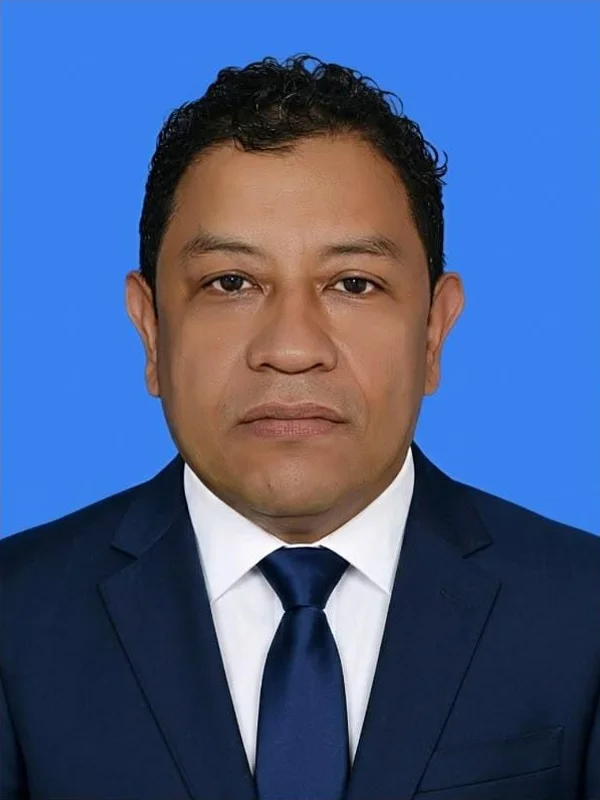
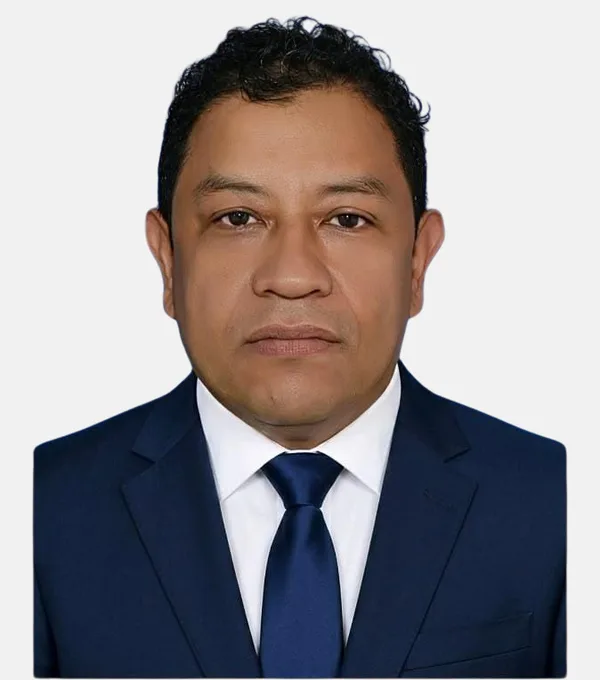
Foto de Carlos con fondo claro; enlaces reales de Instagram y TikTok
El footer muestra solo las redes que tiene la firma (Instagram y TikTok).

diff --git a/src/app/shared/ui/icon/icon.ts b/src/app/shared/ui/icon/icon.ts
@@ -23,7 +23,6 @@ import {
   Clock,
   Coins,
   Eye,
-  Facebook,
   FileSearch,
   FileText,
   GraduationCap,
@@ -34,7 +33,6 @@ import {
   Landmark,
   Laptop,
   Lightbulb,
-  Linkedin,
   Mail,
   Medal,
   Menu,
@@ -48,7 +46,7 @@ import {
   Users,
   X,
 } from '@animateicons/angular/lucide';
-import { Whatsapp } from '@animateicons/angular/huge';
+import { Tiktok, Whatsapp } from '@animateicons/angular/huge';
 
 // Iconos animados de animateicons.in (MIT; formas de Lucide, ISC, y Hugeicons). Aviso de
 // licencias en node_modules/@animateicons/angular/THIRD_PARTY_NOTICES.md.
@@ -90,8 +88,7 @@ const ICONS = {
   menu: Menu,
   close: X,
   instagram: Instagram,
-  facebook: Facebook,
-  linkedin: Linkedin,
+  tiktok: Tiktok,
 } as const satisfies Record<string, IconData>;
 
 export type IconName = keyof typeof ICONS;

diff --git a/src/app/data/site-content.ts b/src/app/data/site-content.ts
@@ -202,7 +202,7 @@ export const SITE_CONTENT: SiteContent = {
           src: '/images/team/carlos-fierro.webp',
           alt: 'Carlos Andrés Fierro González, abogado y contador público, de traje azul',
           width: 600,
-          height: 800,
+          height: 680,
         },
       },
       {
@@ -760,7 +760,11 @@ export const SITE_CONTENT: SiteContent = {
     hours: '[PENDIENTE: horarios de atención]',
   },
 
-  social: {}, // [PENDIENTE: redes sociales]
+  // Redes confirmadas por el usuario (23 oct 2026), sin parámetros de rastreo. No tiene Facebook ni LinkedIn.
+  social: {
+    instagramUrl: 'https://www.instagram.com/ius.counter.consulting.sas',
+    tiktokUrl: 'https://www.tiktok.com/@ius.counter.consu',
+  },
 
   seo: {
     siteUrl: SITE_URL,

diff --git a/src/app/sections/footer/footer.ts b/src/app/sections/footer/footer.ts
@@ -29,8 +29,7 @@ export class Footer {
   // ([PENDIENTE: redes sociales] en site-content.ts).
   protected readonly socials: { icon: IconName; label: string; url: string }[] = [
     { icon: 'instagram', label: 'Instagram', url: SITE_CONTENT.social.instagramUrl ?? '' },
-    { icon: 'facebook', label: 'Facebook', url: SITE_CONTENT.social.facebookUrl ?? '' },
-    { icon: 'linkedin', label: 'LinkedIn', url: SITE_CONTENT.social.linkedinUrl ?? '' },
+    { icon: 'tiktok', label: 'TikTok', url: SITE_CONTENT.social.tiktokUrl ?? '' },
   ];
 
   /** URL mailto ya armada; no nula = se envió (muestra el mensaje de éxito). */
